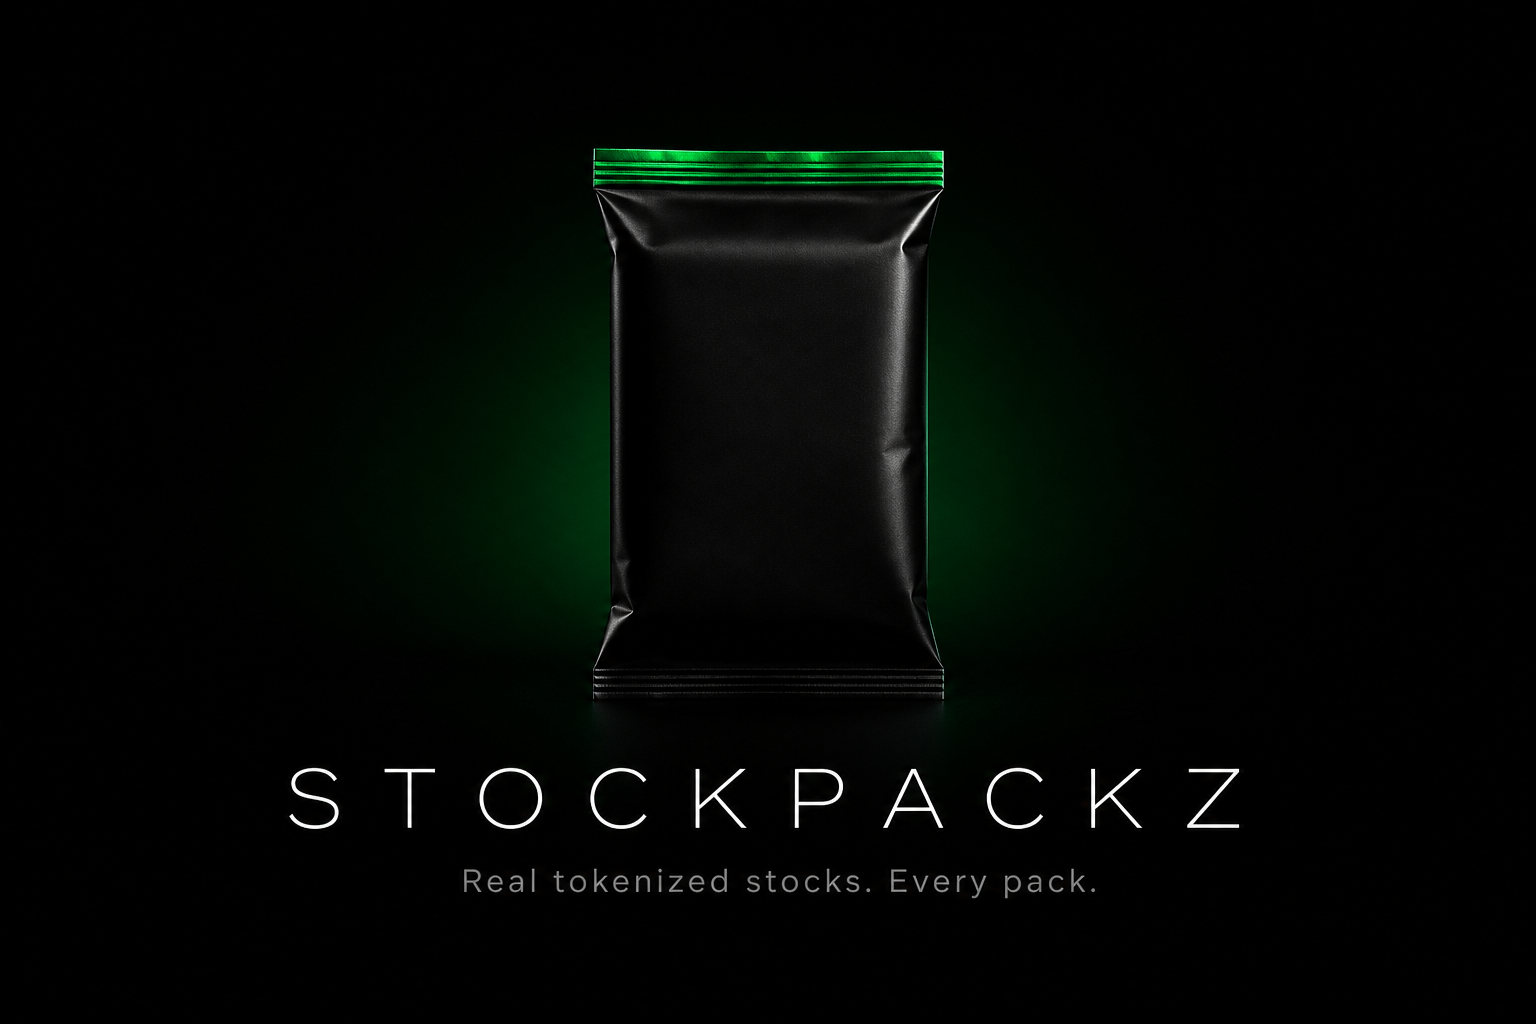
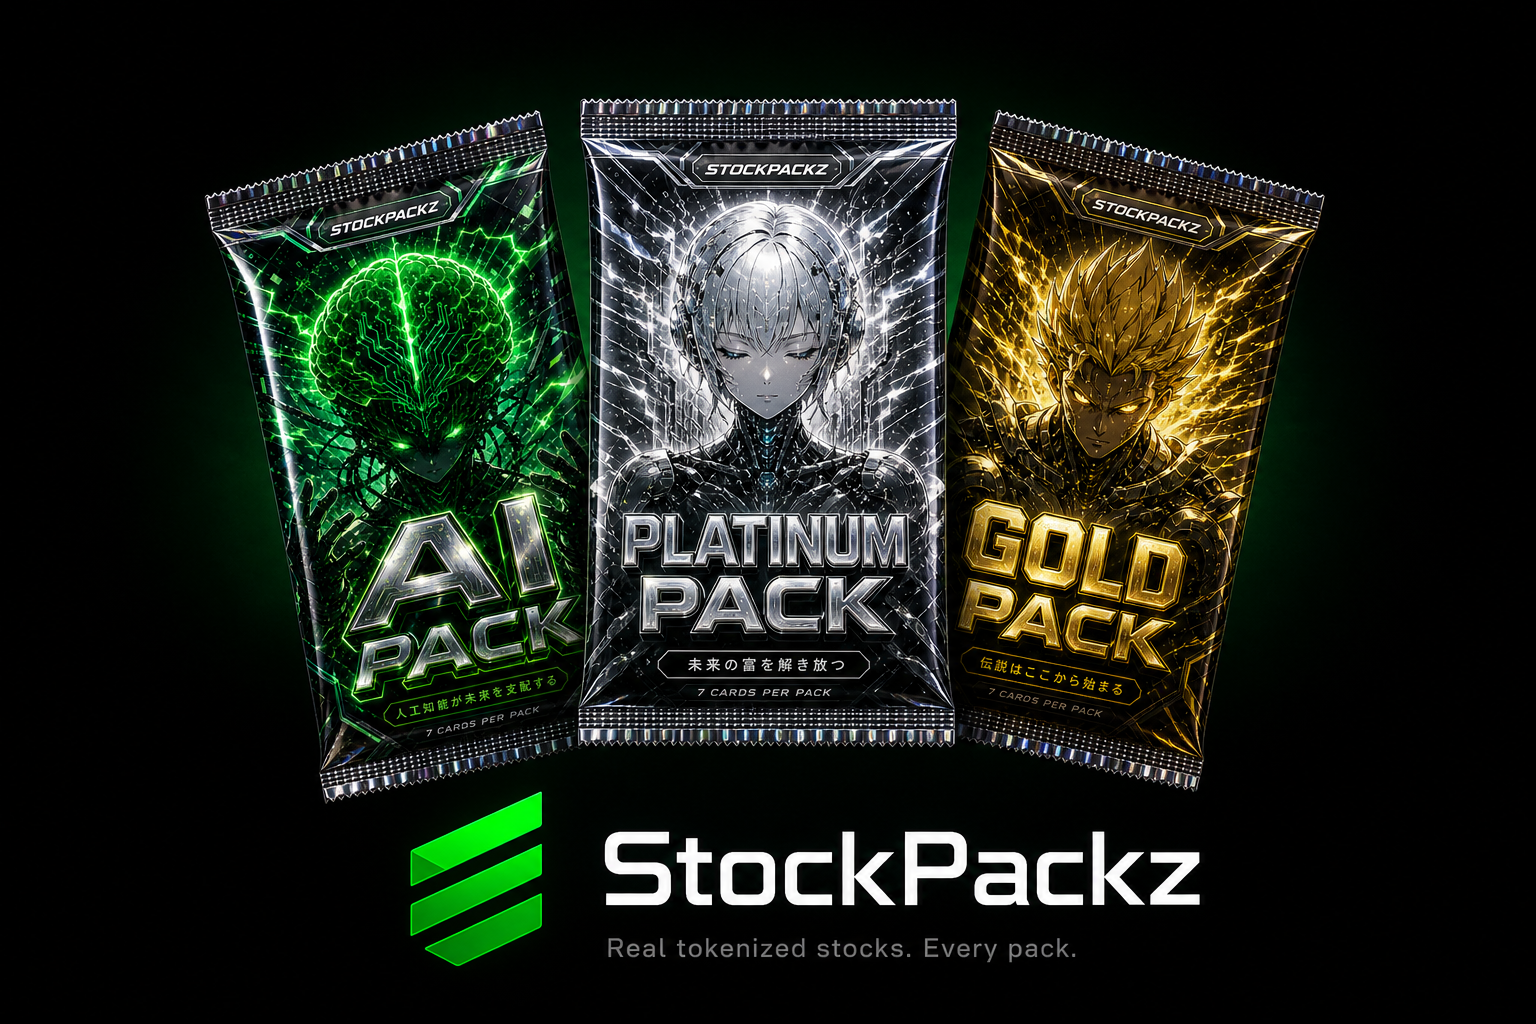
feat: v5 brand identity and anime pack art direction
New layered-S logo (icon, wordmark, lockup), anime/TCG-style artwork for
all five packs, refreshed README banner and org avatar.

Changed region(s): [[0.125, 0.0938, 0.875, 0.9375]]

diff --git a/src/lib/capsule-artwork.ts b/src/lib/capsule-artwork.ts
@@ -1,18 +1,18 @@
-/** Pack card & hero artwork paths (v3 = cache-busted filenames) */
+/** Pack card & hero artwork paths (v5 = anime/TCG art direction, cache-busted filenames) */
 export const CAPSULE_ARTWORK: Record<string, string> = {
-  ai: "/graphics/capsule-ai-v3.png",
-  mag7: "/graphics/capsule-mag7-v3.png",
-  dividend: "/graphics/capsule-dividend-v3.png",
-  healthcare: "/graphics/capsule-healthcare-v3.png",
-  "future-tech": "/graphics/capsule-future-tech-v3.png",
+  ai: "/graphics/capsule-ai-v5.png",
+  mag7: "/graphics/capsule-mag7-v5.png",
+  dividend: "/graphics/capsule-dividend-v5.png",
+  healthcare: "/graphics/capsule-healthcare-v5.png",
+  "future-tech": "/graphics/capsule-future-tech-v5.png",
 };
 
 export const HERO_GRAPHICS = {
-  pack: "/graphics/hero-pack-v3.png",
+  pack: "/graphics/capsule-ai-v5.png",
   capsule: "/graphics/hero-capsule-v3.png",
   texture: "/graphics/hero-bg-texture.png",
-  logo: "/graphics/stockpackz-logo-v4.png",
-  icon: "/graphics/stockpackz-icon-v4.png",
+  logo: "/graphics/stockpackz-logo-v5.png",
+  icon: "/graphics/stockpackz-icon-v5.png",
 } as const;
 
 export function getCapsuleArtwork(capsuleId: string): string {

diff --git a/src/components/brand/stockpackz-logo.tsx b/src/components/brand/stockpackz-logo.tsx
@@ -3,17 +3,17 @@ import Link from "next/link";
 import { cn } from "@/lib/utils";
 
 const ASSETS = {
-  full: "/graphics/stockpackz-logo-v4.png",
-  icon: "/graphics/stockpackz-icon-v4.png",
-  wordmark: "/graphics/stockpackz-wordmark-v4.png",
+  full: "/graphics/stockpackz-logo-v5.png",
+  icon: "/graphics/stockpackz-icon-v5.png",
+  wordmark: "/graphics/stockpackz-wordmark-v5.png",
 } as const;
 
 type LogoVariant = keyof typeof ASSETS;
 
 const sizeMap: Record<LogoVariant, { width: number; height: number; className?: string }> = {
-  full: { width: 626, height: 327, className: "h-auto w-[min(100%,280px)]" },
-  icon: { width: 64, height: 64, className: "h-8 w-8 sm:h-9 sm:w-9" },
-  wordmark: { width: 626, height: 61, className: "h-5 w-auto" },
+  full: { width: 847, height: 150, className: "h-auto w-[min(100%,280px)]" },
+  icon: { width: 512, height: 512, className: "h-8 w-8 sm:h-9 sm:w-9" },
+  wordmark: { width: 849, height: 120, className: "h-5 w-auto" },
 };
 
 interface StockpackzLogoProps {

diff --git a/src/app/layout.tsx b/src/app/layout.tsx
@@ -17,13 +17,13 @@ export const metadata: Metadata = {
   title: "Stockpackz | Robinhood Chain",
   description: "Open packs. Own tokenized stocks on Robinhood Chain.",
   icons: {
-    icon: "/graphics/stockpackz-icon-v4.png",
-    apple: "/graphics/stockpackz-icon-v4.png",
+    icon: "/graphics/stockpackz-icon-v5.png",
+    apple: "/graphics/stockpackz-icon-v5.png",
   },
   openGraph: {
     title: "Stockpackz",
     description: "Open packs. Own tokenized stocks on Robinhood Chain.",
-    images: ["/graphics/stockpackz-logo-v4.png"],
+    images: ["/graphics/stockpackz-logo-v5.png"],
   },
 };
 

diff --git a/src/components/capsules/mini-pack.tsx b/src/components/capsules/mini-pack.tsx
@@ -80,7 +80,7 @@ export function MiniPack({
         />
         <div className="absolute inset-x-[10%] top-[21%] bottom-[15%] flex flex-col items-center justify-center gap-1 rounded-[3px] border border-white/[0.06] bg-gradient-to-b from-[#101010] to-[#080808]">
           <Image
-            src="/graphics/stockpackz-icon-v4.png"
+            src="/graphics/stockpackz-icon-v5.png"
             alt=""
             width={40}
             height={40}